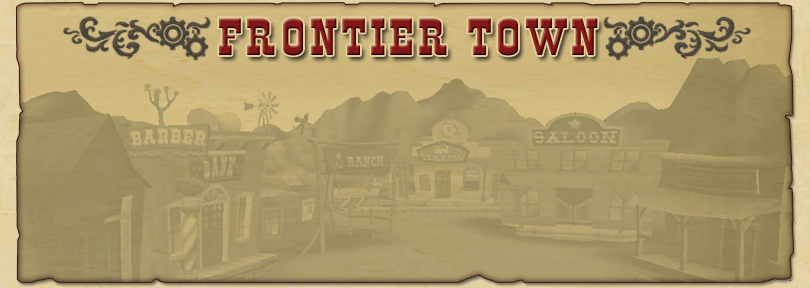
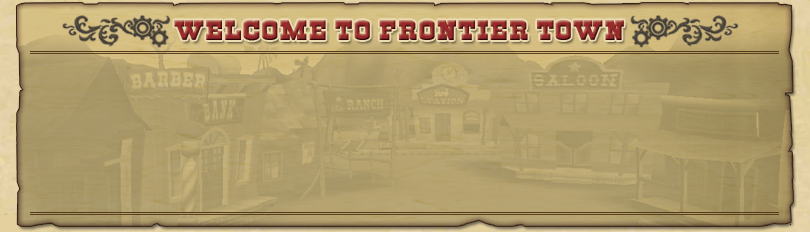
- Rebalanced some header sizes. - Took off about another 50px from the town About section - still needs some text to introduce the featured screenshots/units/scenarios...

diff --git a/pages/town/frontier.html b/pages/town/frontier.html
@@ -11,9 +11,6 @@
 
 <div id="AboutFrontier">
     <div id="ContentFrontier">
-   Howdy Pardner!  Welcome to Frontier Town! Take a gander
-   at some of our featured units and game scenarios!<br/><br/>
-
 <table width="100%" cellpading="0" cellshading="0" border="0">
 <tr><td><a href="/screenshots/2006/frontier/shot.html?goldrush1" 
          onclick="return show('goldrush1')">

diff --git a/pages/town/itp.html b/pages/town/itp.html
@@ -11,7 +11,6 @@
 
 <div id="AboutITP">
     <div id="ContentITP">
-        Welcome to Indian Trading Post!<br/><br/>
 <table width="100%" cellpading="0" cellshading="0" border="0">
 <tr><td><a href="/screenshots/2006/itp/shot.html?totem1" 
          onclick="return show('totem1')">

diff --git a/pages/css/frontier.css b/pages/css/frontier.css
@@ -10,12 +10,12 @@
 	margin: 0px;
 	padding:0px;
 	width: 810px;
-	height: 288px;
+	height: 232px;
 }
 
 #ContentFrontier {
     position: absolute;
-	top: 80px;
+	top: 70px;
 	left: 50px;
 	margin: 0px;
 	padding: 0px;

diff --git a/pages/css/itp.css b/pages/css/itp.css
@@ -10,12 +10,12 @@
 	margin: 0px;
 	padding:0px;
 	width: 810px;
-	height: 288px;
+	height: 232px;
 }
 
 #ContentITP {
     position: absolute;
-	top: 80px;
+	top: 70px;
 	left: 50px;
 	margin: 0px;
 	padding: 0px;
